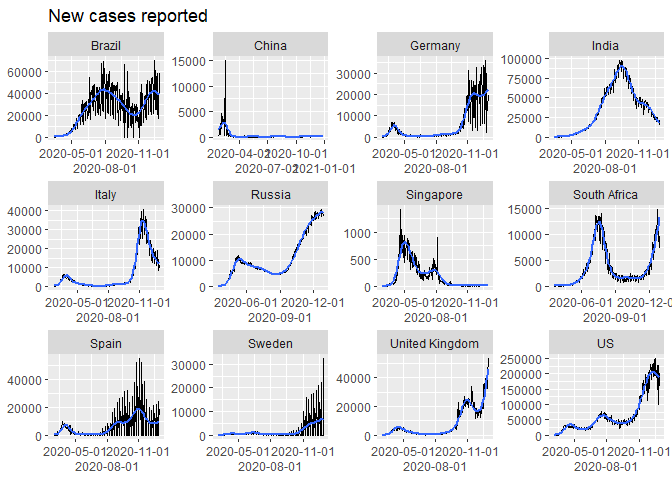
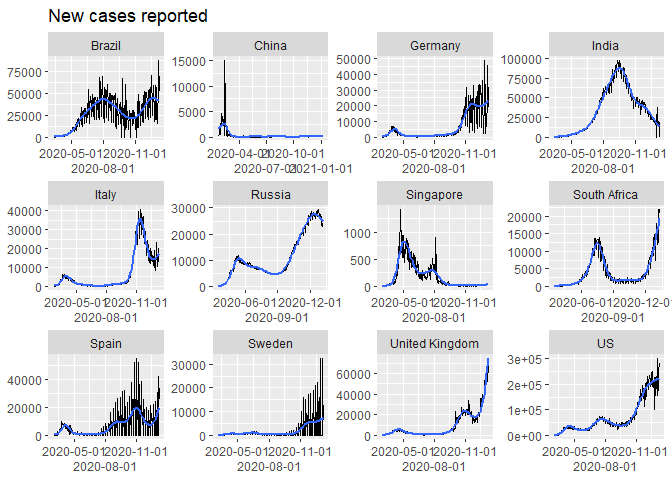
Refresh

diff --git a/README.md b/README.md
@@ -19,7 +19,7 @@ The data source is [a repository maintained by Johns Hopkins
 University](https://github.com/CSSEGISandData/COVID-19). The data is
 updated once per day.
 
-Last updated at 2020-12-30 07:19:31
+Last updated at 2021-01-09 07:43:36
 
 ## Total cases
 
@@ -27,16 +27,16 @@ Last updated at 2020-12-30 07:19:31
     #> # Groups:   country [1]
     #>    country      date         lat  long   cases
     #>    <chr>        <date>     <dbl> <dbl>   <dbl>
-    #>  1 South Africa 2020-12-20 -30.6  22.9  921922
-    #>  2 South Africa 2020-12-21 -30.6  22.9  930711
-    #>  3 South Africa 2020-12-22 -30.6  22.9  940212
-    #>  4 South Africa 2020-12-23 -30.6  22.9  954258
-    #>  5 South Africa 2020-12-24 -30.6  22.9  968563
-    #>  6 South Africa 2020-12-25 -30.6  22.9  983359
-    #>  7 South Africa 2020-12-26 -30.6  22.9  994911
-    #>  8 South Africa 2020-12-27 -30.6  22.9 1004413
-    #>  9 South Africa 2020-12-28 -30.6  22.9 1011871
-    #> 10 South Africa 2020-12-29 -30.6  22.9 1021451
+    #>  1 South Africa 2020-12-30 -30.6  22.9 1039161
+    #>  2 South Africa 2020-12-31 -30.6  22.9 1057161
+    #>  3 South Africa 2021-01-01 -30.6  22.9 1073887
+    #>  4 South Africa 2021-01-02 -30.6  22.9 1088889
+    #>  5 South Africa 2021-01-03 -30.6  22.9 1100748
+    #>  6 South Africa 2021-01-04 -30.6  22.9 1113349
+    #>  7 South Africa 2021-01-05 -30.6  22.9 1127759
+    #>  8 South Africa 2021-01-06 -30.6  22.9 1149591
+    #>  9 South Africa 2021-01-07 -30.6  22.9 1170590
+    #> 10 South Africa 2021-01-08 -30.6  22.9 1192570
 
 ### Linear scale
 
@@ -70,16 +70,16 @@ indicates exponential growth.
     #> # Groups:   country [1]
     #>    country      date       deaths
     #>    <chr>        <date>      <dbl>
-    #>  1 South Africa 2020-12-20  24691
-    #>  2 South Africa 2020-12-21  24907
-    #>  3 South Africa 2020-12-22  25246
-    #>  4 South Africa 2020-12-23  25657
-    #>  5 South Africa 2020-12-24  25983
-    #>  6 South Africa 2020-12-25  26276
-    #>  7 South Africa 2020-12-26  26521
-    #>  8 South Africa 2020-12-27  26735
-    #>  9 South Africa 2020-12-28  27071
-    #> 10 South Africa 2020-12-29  27568
+    #>  1 South Africa 2020-12-30  28033
+    #>  2 South Africa 2020-12-31  28469
+    #>  3 South Africa 2021-01-01  28887
+    #>  4 South Africa 2021-01-02  29175
+    #>  5 South Africa 2021-01-03  29577
+    #>  6 South Africa 2021-01-04  30011
+    #>  7 South Africa 2021-01-05  30524
+    #>  8 South Africa 2021-01-06  31368
+    #>  9 South Africa 2021-01-07  31809
+    #> 10 South Africa 2021-01-08  32425
 
 ### Linear scale
 
